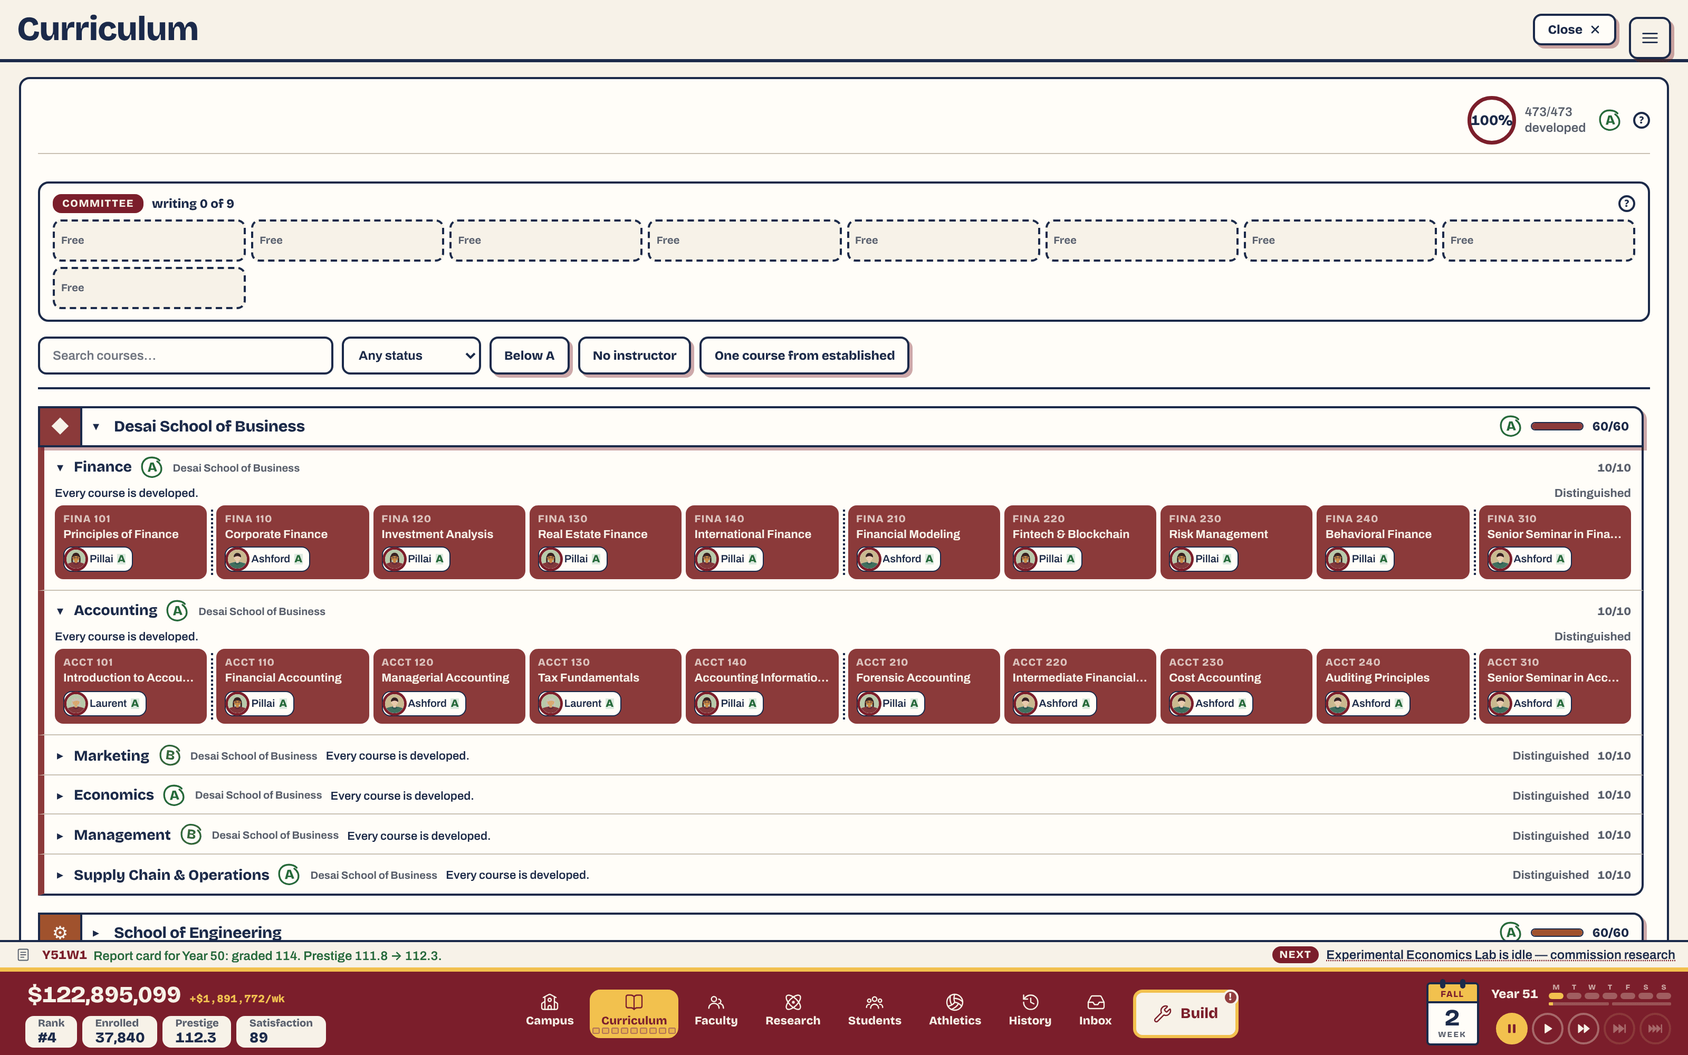
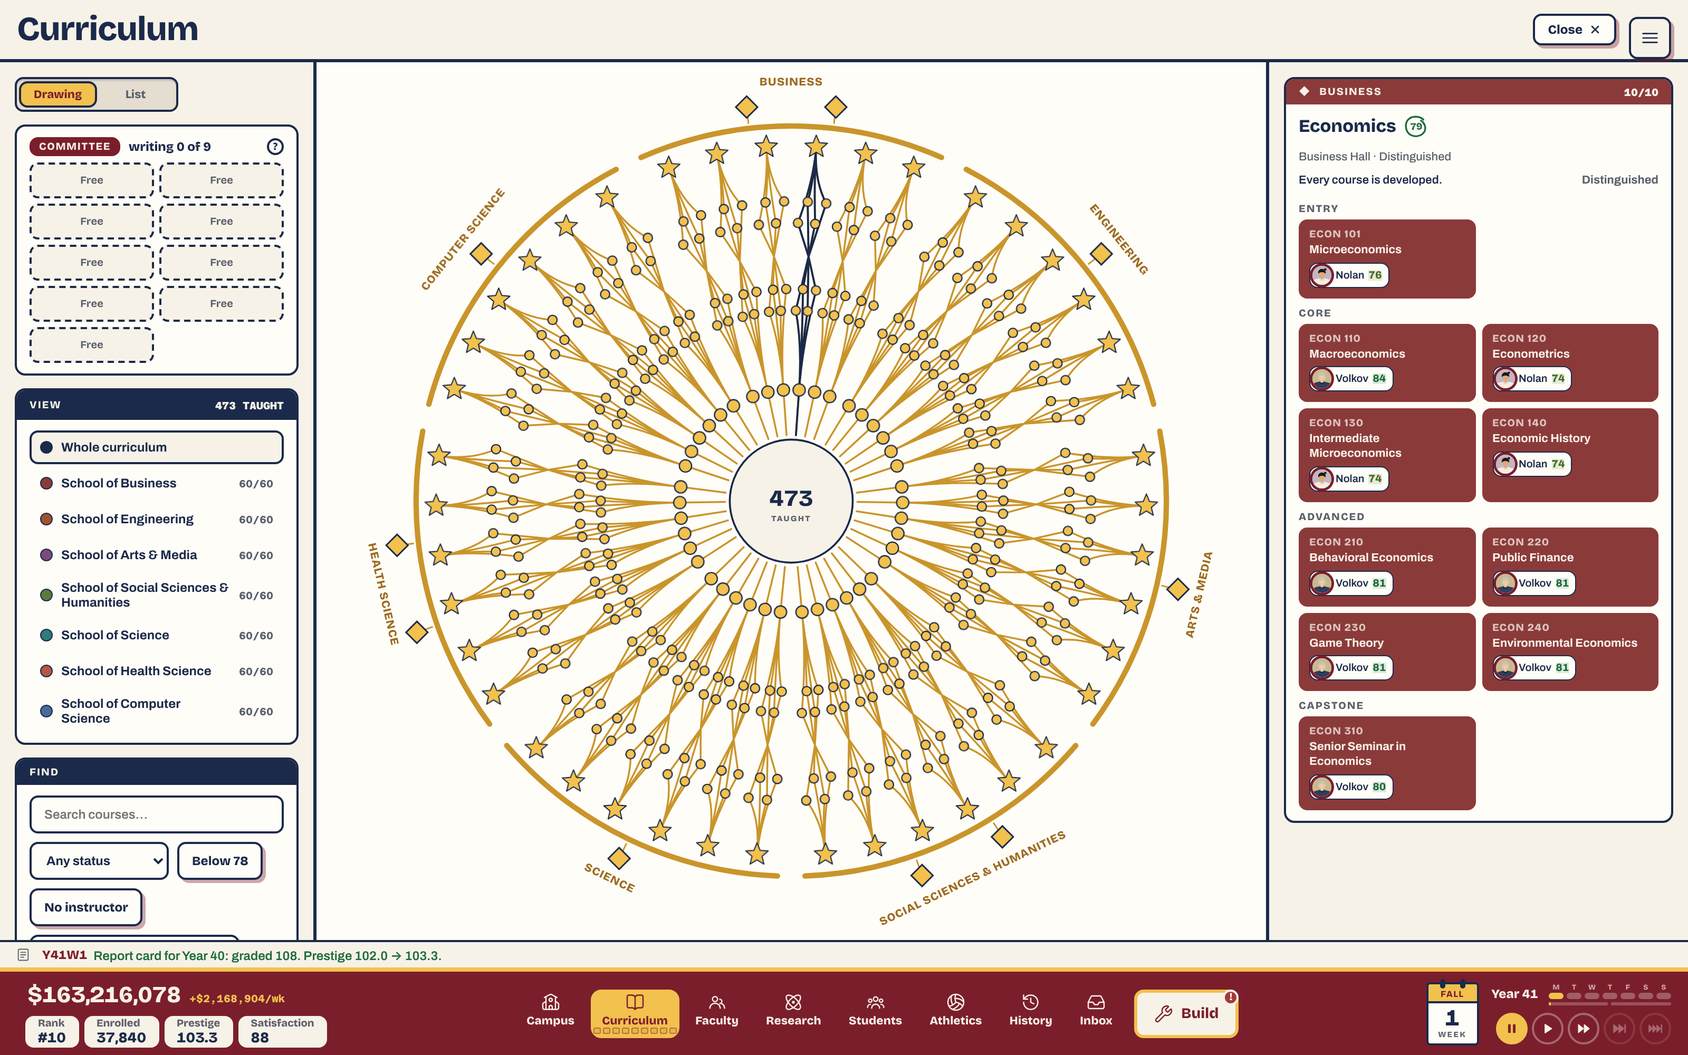
105G: the words, the picture, and Plan 105 landed
The design doc's Curriculum section is rewritten around the drawing, with
the rows as the List view; ui-shell.md's opening drive and buildables.md's
completedWeek follow. A new tab-curriculum.png from a Year 40 run, and the
README's caption. The hit circle under each course stays invisible (it had
been filled, hiding the capstone stars).

Claude-Session: https://claude.ai/code/session_01TUXeBBr1EWKoQJbhzgJm2z

diff --git a/unischool/src/styles.css b/unischool/src/styles.css
@@ -4182,7 +4182,7 @@ body:has(.building-info-panel) .pennant { display: none; }
 .radial-pie { fill: var(--radial-lit); }
 .radial-node.ready circle { stroke: var(--radial-lit-deep); stroke-width: 2.2; stroke-dasharray: 3 2; }
 .radial-node.held circle { stroke: var(--ink-muted); stroke-dasharray: 2 2; }
-.radial-node .radial-hit { fill: transparent; stroke: none; }
+.radial-node .radial-hit { fill: transparent !important; stroke: none !important; }
 .radial-node:hover circle:not(.radial-hit), .radial-node:focus-visible circle:not(.radial-hit) { stroke-width: 3.2; }
 .radial-node:focus-visible circle:not(.radial-hit) { stroke: var(--radial-lit-deep); }
 .radial-node.selected circle:not(.radial-hit), .radial-node.selected .radial-star { stroke: var(--radial-select); stroke-width: 3.4; stroke-dasharray: none; }

diff --git a/docs/design/curriculum.md b/docs/design/curriculum.md
@@ -265,20 +265,78 @@ housed program also adds `SEATS_PER_COURSE` to what the school can teach,
 which is the ceiling on its freshman class (see
 [admissions.md](admissions.md)).
 
-## The Curriculum tab: forty-two rows over one revealed set
+## The Curriculum tab: the curriculum from the centre out
 
 The Curriculum tab, like every tab, is **full-bleed**: it owns the viewport and
 the dock is laid over it (see [ui-shell.md](../architecture/ui-shell.md)).
+Since Plan 105 it opens on **one radial drawing of the whole curriculum**
+(`tabs/RadialCurriculum.tsx`, drawn by `components/RadialSvg.tsx` from
+`systems/techtree/radialLayout.ts`), with the rows it replaced kept as a
+second view (**Drawing / List**, `tabs/curriculumView.ts`; the owner's
+decision 1, asked again in a later plan).
 
-**Its head is the committee.** The curriculum committee's seats sit at the
-head of the tab, and under them one line, **Waiting on faculty**, names the
-departments short of faculty (`neededFacultyFields`, most waited on first),
-with "Faculty →" to the Faculty tab on the first. The strip that stood beside
-the committee until Plan 80B (on offer, near a milestone, ready now, waiting
-on faculty) is gone: the offers live in the hall panel, and its milestone
-item is now a filter.
+**The drawing.** The seven schools are sectors of a circle in the catalog's
+order, each six program wedges; the tiers are rings. A program's **entry
+course** sits on the inner ring around the seal, its **core quartet** on the
+next, its **advanced quartet** beyond, and its **capstone** at the rim; each
+school's **graduate programs** sit beyond the rim as diamonds. Every course has
+one fixed place, so a course always appears where it will stay. The seal at
+the centre counts the courses taught.
 
-**Filters make a worklist.** Any filter turns the tab into one flat
+**Only what the college has opened is drawn.** A course appears when it is
+taught (solid brass), being written (filling like a clock face with the
+committee's progress) or ready to start (a dashed brass ring; one available
+but held, for want of a teacher, cash or a committee seat, has a grey dashed
+ring). A `locked` course, a program with no hall and a graduate program not
+housed are not drawn at all (the owner's decisions 3 and 4); there is no grey
+skeleton of the 473. A housed program begins as a stem from the seal to its
+entry course. Each school's **arc** runs just outside the outermost course
+drawn and fills in its colour as its sixty courses are taught, gold when every
+one is; its **name** sits just outside the arc once a program of it is housed
+(unfounded schools are named, as since Plan 95Q). A distinguished program's
+capstone is a **star**. A dark (unstaffed) program's courses are greyed with a red dashed ring, one
+in transit is drawn at half strength. The **camera fits what is drawn**: a
+young college's few branches fill the stage, and the view eases out as they
+reach the rim. A course newly visible since the tab was last open is ringed
+until it is closed.
+
+**Lines carry progress, not structure.** This is the answer to Plan 2's
+constellation, which spent its drawing on ~336 tier-to-tier edges that all
+said the same thing (see the note at the end of this section). A line runs only
+to a course that is drawn, in its kind: solid to a taught course, dashed to one
+ready to start. The core quartet meets at one junction before fanning to the
+advanced quartet, eight short lines rather than sixteen. **Cross-program
+prerequisites are not drawn** — the owner found them clutter (Plan 105) — and
+are listed in the course's detail instead. The program in focus draws its own
+branch in navy.
+
+**The stage.** The drawing fills the middle of the tab at the largest square
+that fits; it carries no caption except while the pointer is on a course,
+which names it ("PHYS 220 · Solid State Physics — Physics · Advanced · being
+written"). The **left column** holds the committee (below), **View** — the
+whole curriculum or one school, each with its courses taught of sixty and, where
+a course has no instructor, "Staff from the market" — the filters and a key.
+Choosing a school, or its name in the drawing, turns its sector to the top and
+scales it to fill the stage, and only then are its programs' names written
+along their branches (decision 5). The **right column** holds the selected
+course's detail (the course drawer, below) and the program in focus: its
+school, hall, number out of 100 and milestone line, its next start
+(`RowAction`, the hall panel's too), and its courses by ring as course cells.
+Clicking a course selects it and its program; the opening's second course
+(Plan 103) and the hall panel's "Open in Curriculum →" land on their program
+in focus, its school zoomed. Every course is a focusable control: Enter selects
+it, left and right move along its ring, up and down to the nearest course on the
+next ring out or in.
+
+**Its head is the committee.** The curriculum committee's seats head the left
+column (the top of the tab in the List view), and under them one line,
+**Waiting on faculty**, names the departments short of faculty
+(`neededFacultyFields`, most waited on first), with "Faculty →" to the Faculty
+tab on the first. The strip that stood beside the committee until Plan 80B (on
+offer, near a milestone, ready now, waiting on faculty) is gone: the offers
+live in the hall panel, and its milestone item is now a filter.
+
+**Filters make a worklist.** In the drawing a filter dims every course it does not match and lists those it does in the left column, where a click selects one; in the List view it turns the tab into one flat
 cross-school list of the courses it names: a search, a status, **Below A**
 (every offered course short of an A, and any left unstaffed; a course in a
 dark program, which has no grade while dark, counts by the grade its
@@ -286,6 +344,17 @@ instructor earns on it, `instructorQuality`), **No instructor**, and **One
 course from established** (the last course, started or not, between a major
 and Established). "Needs attention" (a D or an F) went in Plan 80B: Below A
 and No instructor cover it (`curriculumFilter.ts`).
+
+**The year by year** (Plan 105F, `components/CurriculumReplay.tsx`): the
+History tab's record and the Final Report replay the drawing as it stood at
+the end of any year, with a Play from Year 1 (the owner's decision 2: the
+Curriculum is for what to write next, the replay is the record). It reads each
+course's `completedWeek`, set when the course is first finished
+(`techSystem.ts`'s `completeDevelopment`), cleared when its program is closed,
+and derived for an older save on load from a professor's first week on the
+course, the log, or its program's milestone year.
+
+### The List view: one row per program
 
 **Each row leads with its own next action.** The row's header names its next
 startable course, the strongest free teacher in its department and the grade
@@ -338,7 +407,9 @@ school's hue and mark. Only the tab's grouping moves: the program's home
 school (`homeSchool`) is what founding, research and every reading still
 use, and a section's "Staff from the market" covers the courses it draws.
 
-**Faculty chips.** A compact instructor sits with each developed course —
+### Both views
+
+**Faculty chips.** A compact instructor sits with each developed course (in the drawing, in the program card's course cells) —
 portrait, surname, grade — and chips **drag between courses to swap
 instructors**, with a live grade delta on both courses while dragging, which is
 the entire reason the mechanic is worth building. A drop that is not a legal
@@ -363,12 +434,6 @@ prerequisite in it is a link that scrolls to the course. When nobody in a
 department can take a course, the drawer offers a **search** rather than a
 dead end (see [faculty.md](faculty.md)).
 
-**Almost no edges are drawn, and that is the argument.** 42 programs in a fixed
-1/4/4 shape means the tier chain is ~336 edges all saying the same thing;
-position carries that. What gets highlighted are the **~50 authored
-cross-major bridges** (`techData.ts`'s `CROSS_MAJOR_BRIDGES`), and only when
-they are relevant to what you are looking at.
-
 **Three rules every bridge holds to**, each checked by
 `test/curriculum-graph.test.ts` rather than left to review. A bridge never
 points *up* the tier climb, so a major's establishment is never held behind
@@ -383,11 +448,14 @@ never that school's lab and its founding. The same test refuses two courses
 sharing a title, because the tab shows a title without its code in several
 places.
 
-*(A literal constellation layout was built and abandoned before this — see
-`docs/plans/002-academic-core.md`'s "Why the constellation failed". The
-three-level map that replaced it — school cards, then lanes, then the drawer —
-lasted until Plan 14, whose rows are what the halls model needed: one screen
-where a school's shape is something you can see forming.)*
+*(A literal constellation layout was built and abandoned before Plan 14 — see
+`docs/plans/002-academic-core.md`'s "Why the constellation failed": it drew
+every regular edge and the bridges drowned in them, and course names shrank
+to dots. The three-level map that replaced it — school cards, then lanes,
+then the drawer — lasted until Plan 14, whose rows were what the halls model
+needed. Plan 105's drawing is radial again, on four rules that answer that
+failure: the rings carry the tier, lines carry progress, nothing unopened is
+drawn, and names live in the panels.)*
 
 ## The health chain, and clinical coursework
 

diff --git a/docs/plans/105-the-radial-curriculum.md b/docs/plans/105-the-radial-curriculum.md
@@ -7,7 +7,11 @@ the whole curriculum, entry courses at the centre and capstones at the rim,
 that draws only what the college has opened and fills the screen between
 two side panels.*
 
-**Status: Proposed.**
+**Status: Landed.** A, B–D, E–F and G in four commits on one branch. The
+owner answered the five decisions as proposed (§4). Two departures, both the
+owner's, made while B landed: the drawing carries no caption until the pointer
+is on a course, and cross-program prerequisites are not drawn at all (§2's
+rule 3 and §3.4, below).
 
 ---
 
@@ -266,6 +270,11 @@ quality computed on read, and every number shown.
   grows monotonically as courses complete; every bridge in
   `CROSS_MAJOR_BRIDGES` resolves to two positions.
 
+**As implemented (A):** `systems/techtree/radialLayout.ts` and
+`test/radial-layout.test.ts`. The inner rings moved out (entry 145, core 262,
+advanced 376) when the overlap check found neighbouring entry courses
+touching at 120. `bridgesFor` and its checks went with B's departure.
+
 ### 105B — The stage
 
 - `tabs/curriculum/` holds `CurriculumStage` (the three columns),
@@ -302,6 +311,26 @@ The chip-drag swap in the program card's course list (§3.6), the dark and
 in-transit drawings, keyboard navigation (§3.4). Tests for the swap
 preview and for arrow-key order.
 
+**As implemented (B–D):** one commit. `tabs/RadialCurriculum.tsx` (the
+stage, the program card, wiring), `tabs/curriculumView.ts` (the Drawing /
+List switch, which App.tsx also reads to give the overlay `split`), and,
+since E–F, `components/RadialSvg.tsx` (the drawing). Departures:
+- **No bridges drawn** (the owner: "extra clutter"). The program in focus
+  draws only its own branch in navy; the course drawer lists cross-listed
+  prerequisites as before.
+- **No idle caption** (the owner): the caption shows only while the pointer
+  or focus is on a course; the tab's help moved to the View card's band.
+- **The schools' arcs run just outside the outermost course drawn**, not at
+  the fixed rim, so the camera's fit is not held small by an empty rim in a
+  young college.
+- The right column shows the selected course's drawer **above** the program
+  card, and scrolls to its top on a selection.
+- The program in focus is chosen in the first render (the walk's program,
+  else the first drawn), not in an effect, so a static render and the first
+  paint both have it.
+- Instructor swaps use the course cells themselves in the program card,
+  unchanged from the rows (`CourseCell`, `SWAP_COURSE_FACULTY`).
+
 ### 105E — When a course was finished
 
 `completedWeek` set in `completeDevelopment`; the sanitize step for old
@@ -315,6 +344,15 @@ The replay where decision 2 puts it: a year slider and Play over a
 read-only `RadialDrawing` fed by `completedWeek`. Reduced motion steps
 without animation.
 
+**As implemented (E–F):** one commit. `completedWeek` in `types.ts`, set in
+`completeDevelopment`, cleared in `closeProgram`, derived in
+`persistence.ts`'s `sanitizeCompletedWeeks` (no save version: the field is
+optional and the step runs on every load). The replay is
+`components/CurriculumReplay.tsx` over `radialLayout.ts`'s `curriculumAt`,
+in the History tab's record (after the chronicle) and at the foot of the
+Final Report; `test/completed-week.test.ts` and the replay's checks in
+`radial-layout.test.ts`.
+
 ### 105G — The words, and the list
 
 - `docs/design/curriculum.md` §"The Curriculum tab" (268–391) rewritten:
@@ -326,3 +364,11 @@ without animation.
   "unfold") in help text and figure hints, and rewrite them (Plan 95E's
   rule).
 - Ask decision 1 again: retire the List view, or keep it.
+
+**As implemented (G):** `docs/design/curriculum.md`'s tab section rewritten
+around the drawing, with the rows as "The List view" and the four rules of
+§2 (as landed: no bridges) closing it; `ui-shell.md`'s opening drive and ring
+list; `buildables.md` on `completedWeek`; a new `docs/images/tab-curriculum.png`
+from a Year 40 run. No help text in `src/` described rows as the only view:
+the List view's own help still describes its rows. Decision 1 stays open:
+the List view is kept until the owner retires it.

diff --git a/docs/plans/README.md b/docs/plans/README.md
@@ -123,7 +123,7 @@ the repository root, and the game as it actually is lives in `docs/design/` and
 | 102 | [The course catalog](102-the-course-catalog.md) | What Plans 95L–M left of A2-5: no 400-level numbers and no internal medicine in the MD, at the catalog's present size. PRs A–C. | Landed |
 | 103 | [The opening orients](103-the-opening-orients.md) | Four guided steps after the opening three: develop a program's next course in the Curriculum, then read the needs in Students and site a residence hall and a dining hall from the build menu. No new letters. PRs A–C. | Landed |
 | 104 | [Version 0.1.2](104-version-0-1-2.md) | The playtest's asks since 0.1.1: develop a program's next course from its hall, a paused clock that says a decision is waiting, a walkthrough skip that asks first, a quieter screen for the first three steps, and the opening's steps and skips sent to the play statistics, teaching shown as numbers instead of letters, a reason for every refused placement, needs out of 100 with what pulls satisfaction down, no teaching overload, a pennant that never splits a word, a welcome letter that welcomes, and the Students tab after the first summer; then the 0.1.2 release. PRs A–M. | Landed |
-| 105 | [The radial curriculum](105-the-radial-curriculum.md) | The owner's pick from three rounds of Curriculum mockups: the tab's rows give way to one radial drawing, entry courses at the centre and capstones at the rim, that draws only what is taught, being written or ready, fills the stage between a committee panel and a course panel, and shows cross-program prerequisites only for the program in focus; then a record of when each course was finished, and the curriculum replayed year by year. PRs A–G. | Proposed |
+| 105 | [The radial curriculum](105-the-radial-curriculum.md) | The owner's pick from three rounds of Curriculum mockups: the tab's rows give way to one radial drawing, entry courses at the centre and capstones at the rim, that draws only what is taught, being written or ready, fills the stage between a committee panel and a course panel, and shows no cross-program prerequisite curves; then a record of when each course was finished, and the curriculum replayed year by year in the History tab and the Final Report. PRs A–G. | Landed |
 | 060 | [Screens](060-screens.md) | The owner's playthrough, screens half: pill buttons that wrap become rounded rectangles; the Athletics tab in two columns with program cards carrying each sport's standing; a lab's options close; Curriculum schools and programs collapse once complete; a venue's panel tiles its teams; the History standings as six cards; the final report a full page; and the next-step line names a dark program first. One PR. | Landed |
 
 ## Naming

diff --git a/README.md b/README.md
@@ -161,8 +161,8 @@ different pair of school colours.
 
 | | |
 |---|---|
-| ![The Curriculum tab: the catalogue by school, a school opened to its programs, every course carrying its instructor and grade](docs/images/tab-curriculum.png) | ![The Faculty tab: a figure row of course slots, then the faculty as a grid of faces, each with a grade for teaching and research, a quirk and the courses they carry](docs/images/tab-faculty.png) |
-| **Curriculum** — the catalogue by school and program, each with who teaches it and the grade they earn; a finished school folds away. | **Faculty** — the people: a grid of faces, each with a career, quirks and the courses they carry, under one row of figures; the market and the departments a switch away. |
+| ![The Curriculum tab: the whole curriculum as one radial drawing, entry courses around the seal and capstones at the rim, with the committee on the left and a program's courses on the right](docs/images/tab-curriculum.png) | ![The Faculty tab: a figure row of course slots, then the faculty as a grid of faces, each with a grade for teaching and research, a quirk and the courses they carry](docs/images/tab-faculty.png) |
+| **Curriculum** — the whole curriculum from the centre out: each program a branch from its entry course to its capstone, drawn as it is taught; a program's courses, teachers and next start beside it. | **Faculty** — the people: a grid of faces, each with a career, quirks and the courses they carry, under one row of figures; the market and the departments a switch away. |
 | ![The Research tab: every lab with its initiative, team, depth and progress](docs/images/tab-research.png) | ![The Students tab: what the guidebooks say, satisfaction by attribute, clubs and Greek chapters](docs/images/tab-students.png) |
 | **Research** — each lab's running initiative: the topic, the team, the depth and what it has produced. | **Students** — satisfaction by attribute and what serves it, the clubs, the chapters and the demands. |
 | ![The Athletics tab: the department at the side, and every varsity program folded to one line with its rank, its last season and its quality](docs/images/tab-athletics.png) | ![The History tab on its Prestige view: the four pillars, each on its own scale, and every input that grades prestige](docs/images/tab-history.png) |

diff --git a/docs/architecture/ui-shell.md b/docs/architecture/ui-shell.md
@@ -422,8 +422,9 @@ each transition into a stage — opens the build menu for the hall, closes it,
 drops the pickup and opens Founders Hall's panel when the hall stands (where
 the first professor is appointed and the first program founded, Plan 80D),
 starts the clock while the first course is written, opens the Curriculum on
-that program with its row open when the course step begins (Plan 103B, through
-`useCollapse.ts`'s `setCollapsed`), opens Students on the satisfaction
+that program when the course step begins (Plan 103B: in the drawing, Plan 105,
+the program in focus in the right column and its school zoomed; in the List
+view its row open, through `useCollapse.ts`'s `setCollapsed`), opens Students on the satisfaction
 breakdown for the needs step, and the build menu for each site step, on the
 tab of the building it rings (Plan 103C, `BuildPopup.tsx`'s `initialBuildTab`;
 already open, the menu turns to it) — through the same `setBuildOpen` and
@@ -438,8 +439,8 @@ the hall's panel or a tab holds the top, and steps aside while a building is
 in hand, since the map's touch bar and its Place hold the top then. The control each
 step needs carries `.opening-target` (the Build button, the hall's tile,
 Founders Hall's first free program slot in its panel on the map, English
-among the offers, the Found button, the program row's develop button in
-the Curriculum, Students' Housing and Dining cards, and the next residence
+among the offers, the Found button, the program's develop button in
+the Curriculum (the program card's, or the row's in the List view), Students' Housing and Dining cards, and the next residence
 hall's and dining hall's build tiles). A skipped walk that left the hall
 unsited keeps the Build button and the hall's tile rung while the clock
 waits for it.

diff --git a/docs/architecture/buildables.md b/docs/architecture/buildables.md
@@ -112,6 +112,14 @@ for a year and read the renovation as the cause. The map agrees: such a
 building is drawn at the height of the floors it has, with the scaffold
 rising off its finished roof rather than off the grass.
 
+A course records **when it was first finished** (`Buildable.completedWeek`,
+Plan 105E: weeks since founding), set in `techSystem.ts`'s
+`completeDevelopment` beside a building's `builtYear`, cleared when its program
+is closed (`closeProgram`), and derived on load for a save from before it
+existed (`persistence.ts`'s `sanitizeCompletedWeeks`). Nothing in the
+simulation reads it: it is the record the curriculum's year-by-year replay
+draws from (`components/CurriculumReplay.tsx`).
+
 ### Looks that are not state (Plan 25)
 
 Some of what a building looks like depends on the campus, not on the Buildable:
